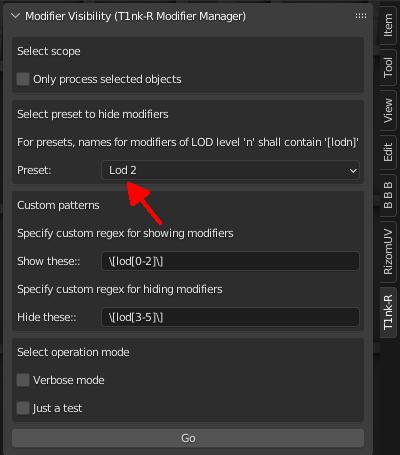
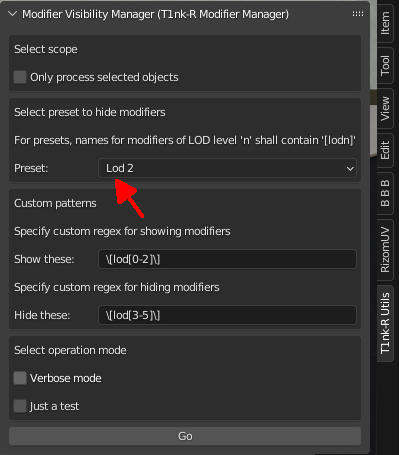
Cosmetics in documentation

Changed region(s): [[0.0, 0.0, 0.9925, 1.0], [0.0, 0.0615, 0.2105, 0.1231], [0.4211, 0.9538, 0.5113, 0.9846]]

diff --git a/__init__.py b/__init__.py
@@ -1,24 +1,30 @@
 # Modifier Manager
+# - part of T1nk-R Utilities for Blender
 #
 # COPYRIGHT **************************************************************************************************
 # Creative Commons CC-BY-SA. Simply to put, you can create derivative works based on this script,
 # and if you are nice, you don't remove the following attribution:
 #
-# Original script created by: T1nk-R - na.mondhatod@gmail.com
-# Version 2021-05-15
+#       Original addon created by: T1nk-R - na.mondhatod@gmail.com
+#
+# Version 1.0.2 @ 2023-12-07
 #
 # DISCLAIMER *************************************************************************************************
 # This script is provided as-is. Use at your own risk. No warranties, no guarantee, no liability,
 # no matter what happens. Still I tried to make sure no weird things happen.
 #
+# USAGE ******************************************************************************************************
+# You can use this add-on to add, edit and remove custom object properties in batches.
 # 
+# New versions, support, feature requests, saying Hi: [https://github.com/gusztavj/Modifier-Manager](https://github.com/gusztavj/Modifier-Manager)
+#
 
 bl_info = {
     "name": "T1nk-R Modifier Manager",
-    "author": "GusJ",
-    "version": (1, 0),
-    "blender": (2, 91, 0),
-    "location": "Object menu",
+    "author": "T1nk-R (GusJ)",
+    "version": (1, 0, 2),
+    "blender": (3, 3, 0),
+    "location": "View3D > Sidebar (N) > T1nk-R Utils",
     "description": "Turn on or off visibility of modifiers matching a name pattern",
     "category": "Object",
     "doc_url": "https://github.com/gusztavj/Modifier-Manager",

diff --git a/modifierManager.py b/modifierManager.py
@@ -101,7 +101,7 @@ class T1nkerModifierManagerAddonSettings(bpy.types.PropertyGroup):
     
     # Defines a pattern. Modifiers with a name matching this pattern will be made visible in the viewport.
     showThese: StringProperty(
-        name="Show these:",
+        name="Show these",
         description="You can use a regex applied on modifier names to specify which to show"
     )
     """
@@ -110,7 +110,7 @@ class T1nkerModifierManagerAddonSettings(bpy.types.PropertyGroup):
     
     # Defines a pattern. Modifiers with a name matching this pattern will be made hidden in the viewport.
     hideThese: StringProperty(
-        name="Hide these:",
+        name="Hide these",
         description="You can use a regex applied on modifier names to specify which to hide"
     )    
     """
@@ -143,11 +143,11 @@ class T1nkerModifierManagerPanel(bpy.types.Panel):
     """
     # Blender-specific stuff
     bl_idname = "OBJECT_PT_t1nker_modifiermanager_panel"
-    bl_label = "Modifier Visibility (T1nk-R Modifier Manager)"    
+    bl_label = "Modifier Visibility Manager (T1nk-R Modifier Manager)"    
     bl_description = "Switch visibility of modifiers based on name pattern"
     bl_space_type = "VIEW_3D"
     bl_region_type = "UI"
-    bl_category = "T1nk-R"  # this is going to be the name of the tab
+    bl_category = "T1nk-R Utils"  # this is going to be the name of the tab
     
     # Draw the panel  =============================================================================================================  
     def draw(self, context: Context):

diff --git a/readme.md b/readme.md
@@ -2,7 +2,7 @@
 
 Created by [T1nk-R](https://github.com/gusztavj/).
 
-Version 1.0 @ 2023-12-06
+Version 1.0.2 @ 2023-12-07
 
 New versions, support, feature requests, saying Hi: [https://github.com/gusztavj/Modifier-Manager](https://github.com/gusztavj/Modifier-Manager)
 
